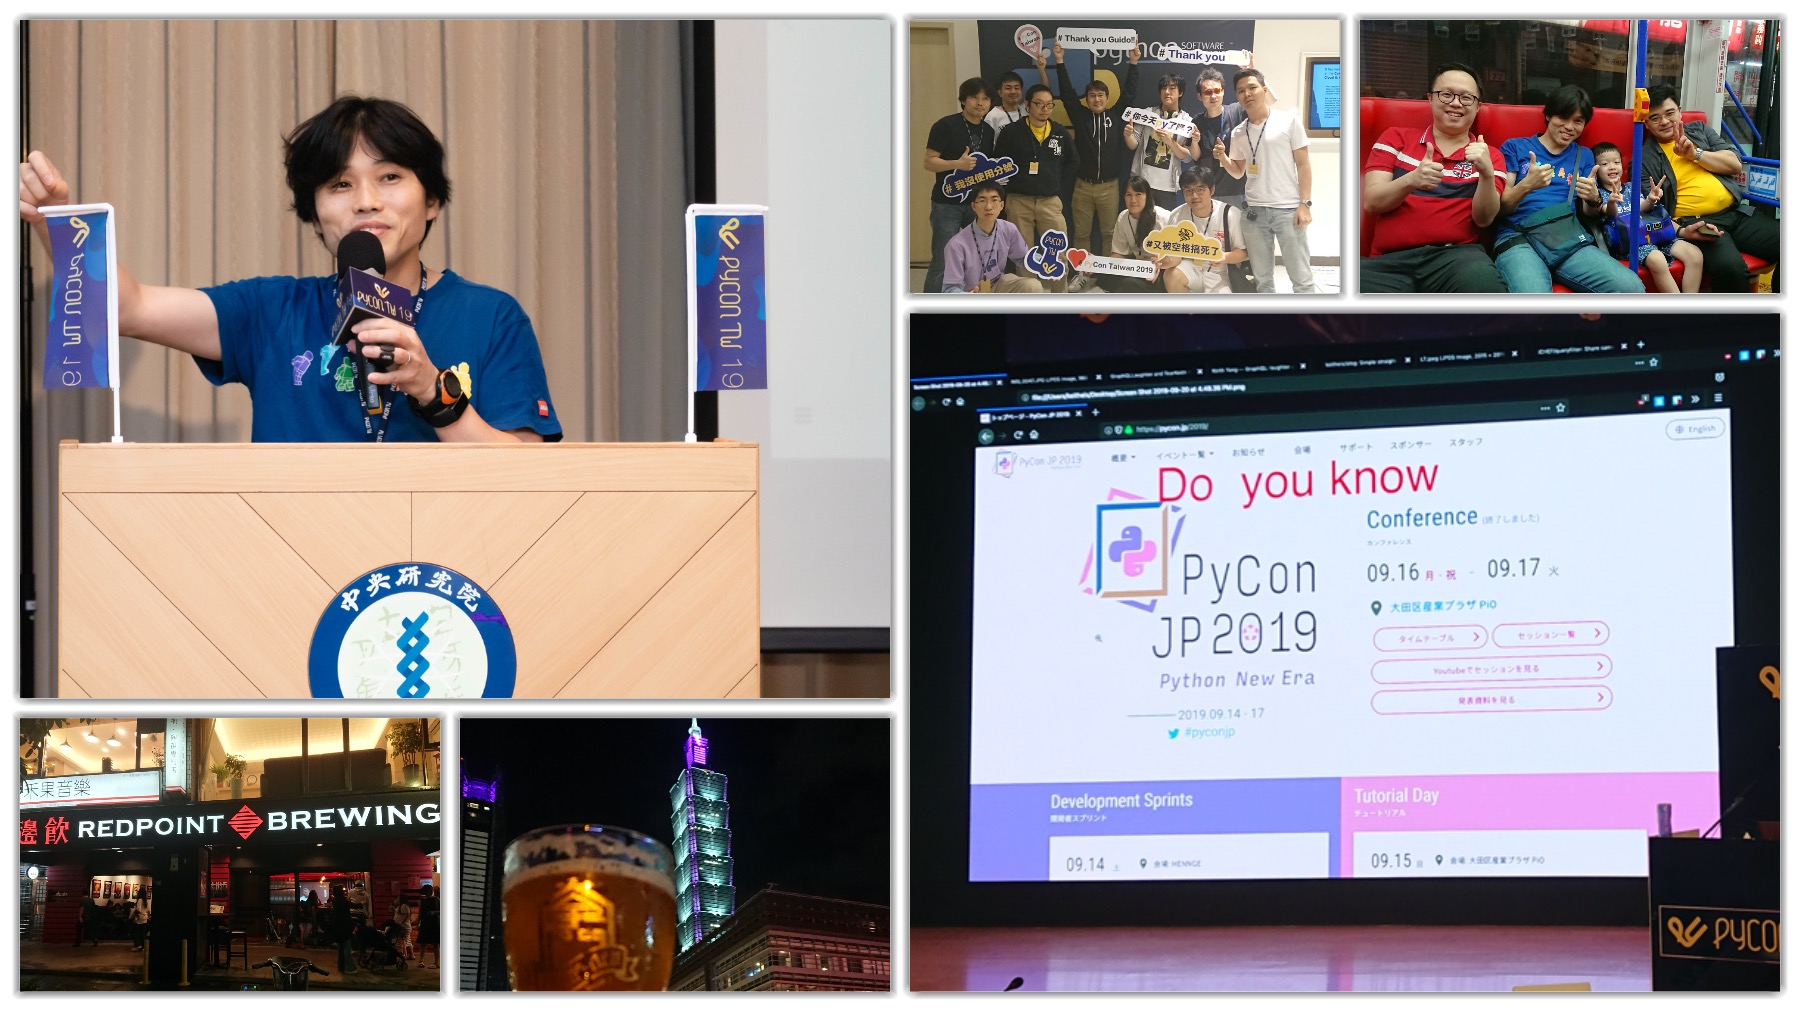
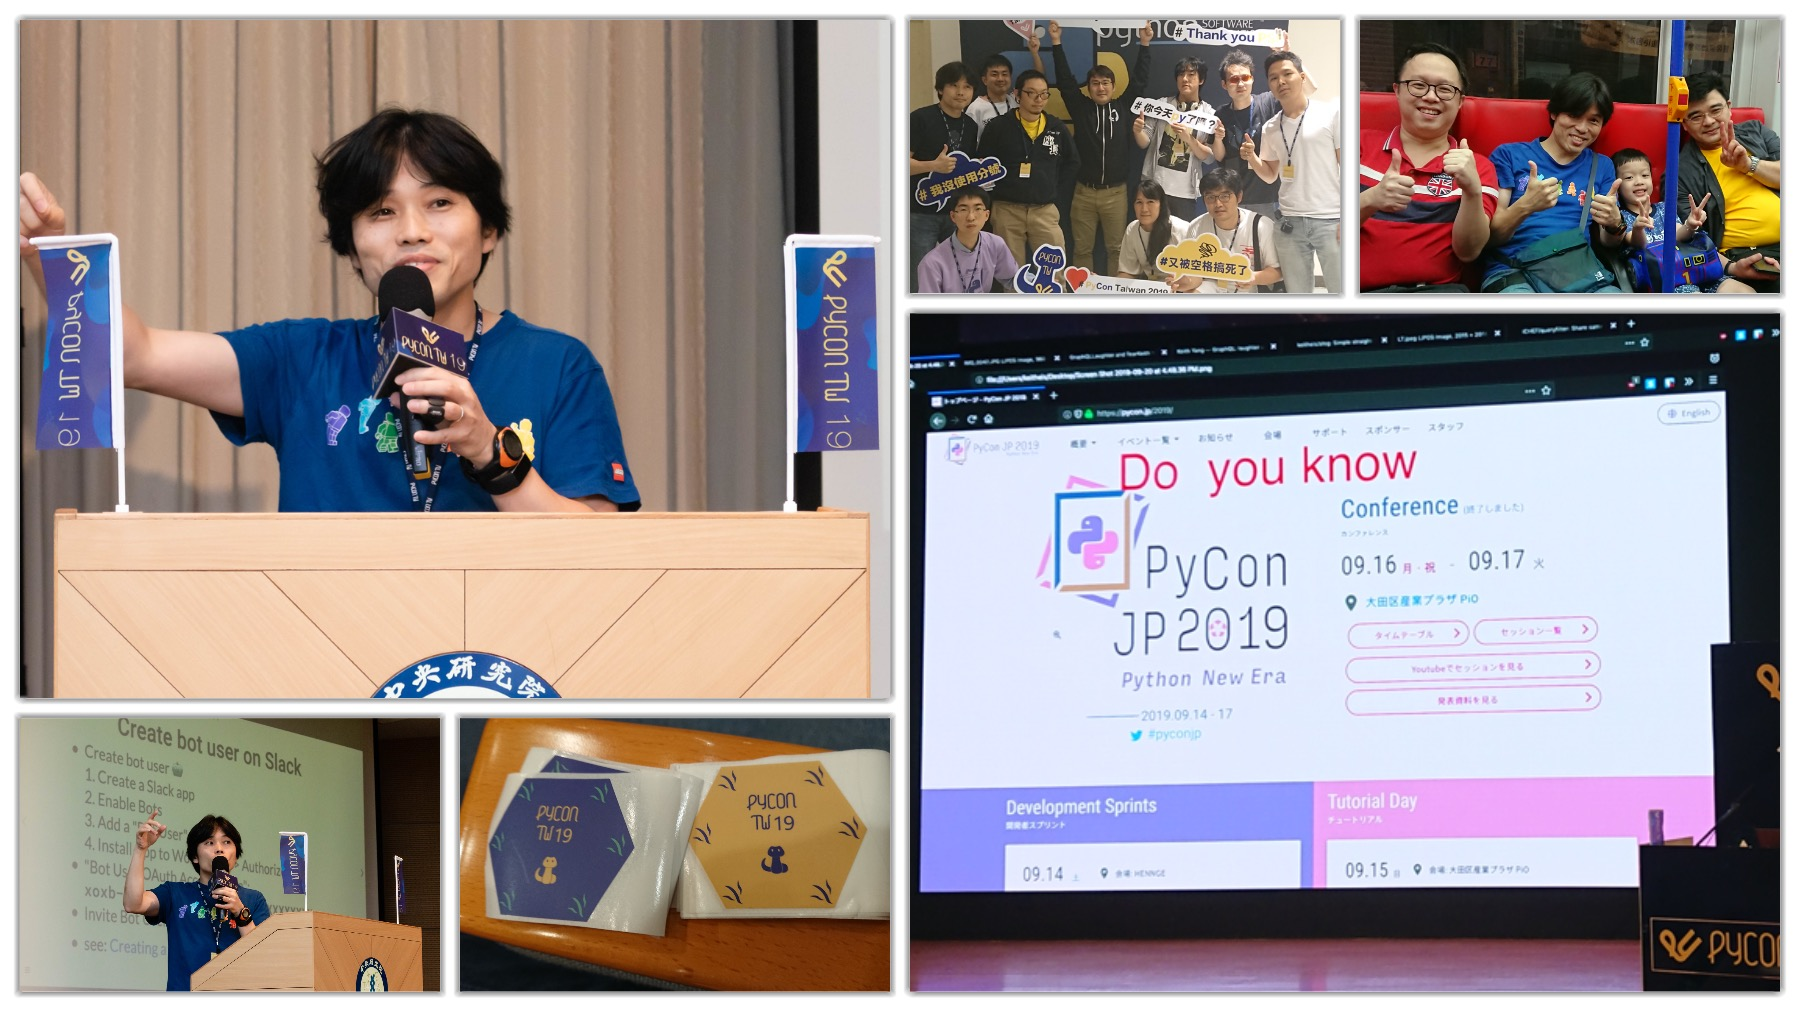
refs #21 update slides

diff --git a/20200905pycontw/PITCHME.md b/20200905pycontw/PITCHME.md
@@ -102,9 +102,15 @@ Note:
 +++?image=20200905pycontw/images/pycontw2019.jpg&size=auto 90%
 
 Note:
-* In the tour,... I presented talk at PyCon Taiwan 2019. Did you see me?
-* It was a very fun and comfortable time for me.
-* Today, I'm happy to talk at PyCon Taiwan 2020, but I'd like to visit Tainan. And I want to drink Taiwanese Craft Beer
+* In the tour,... I presented talk about slackbot at PyCon Taiwan 2019. Did you see me?
+* It was a very fun and comfortable time for me. Because I really enjoyed the conference and beer every day with my friends from Japan, Taiwan and Asia.
+* Today, I'm happy to talk at PyCon Taiwan 2020, but I'd like to visit Tainan.
+* ... And
+
++++?image=20200905pycontw/images/pycontw2019beer.jpg&size=auto 90%
+
+Note:
+* ... And I want to drink Taiwanese Craft Beer.
 * Now, let's get back to the main topic.
 
 ---
